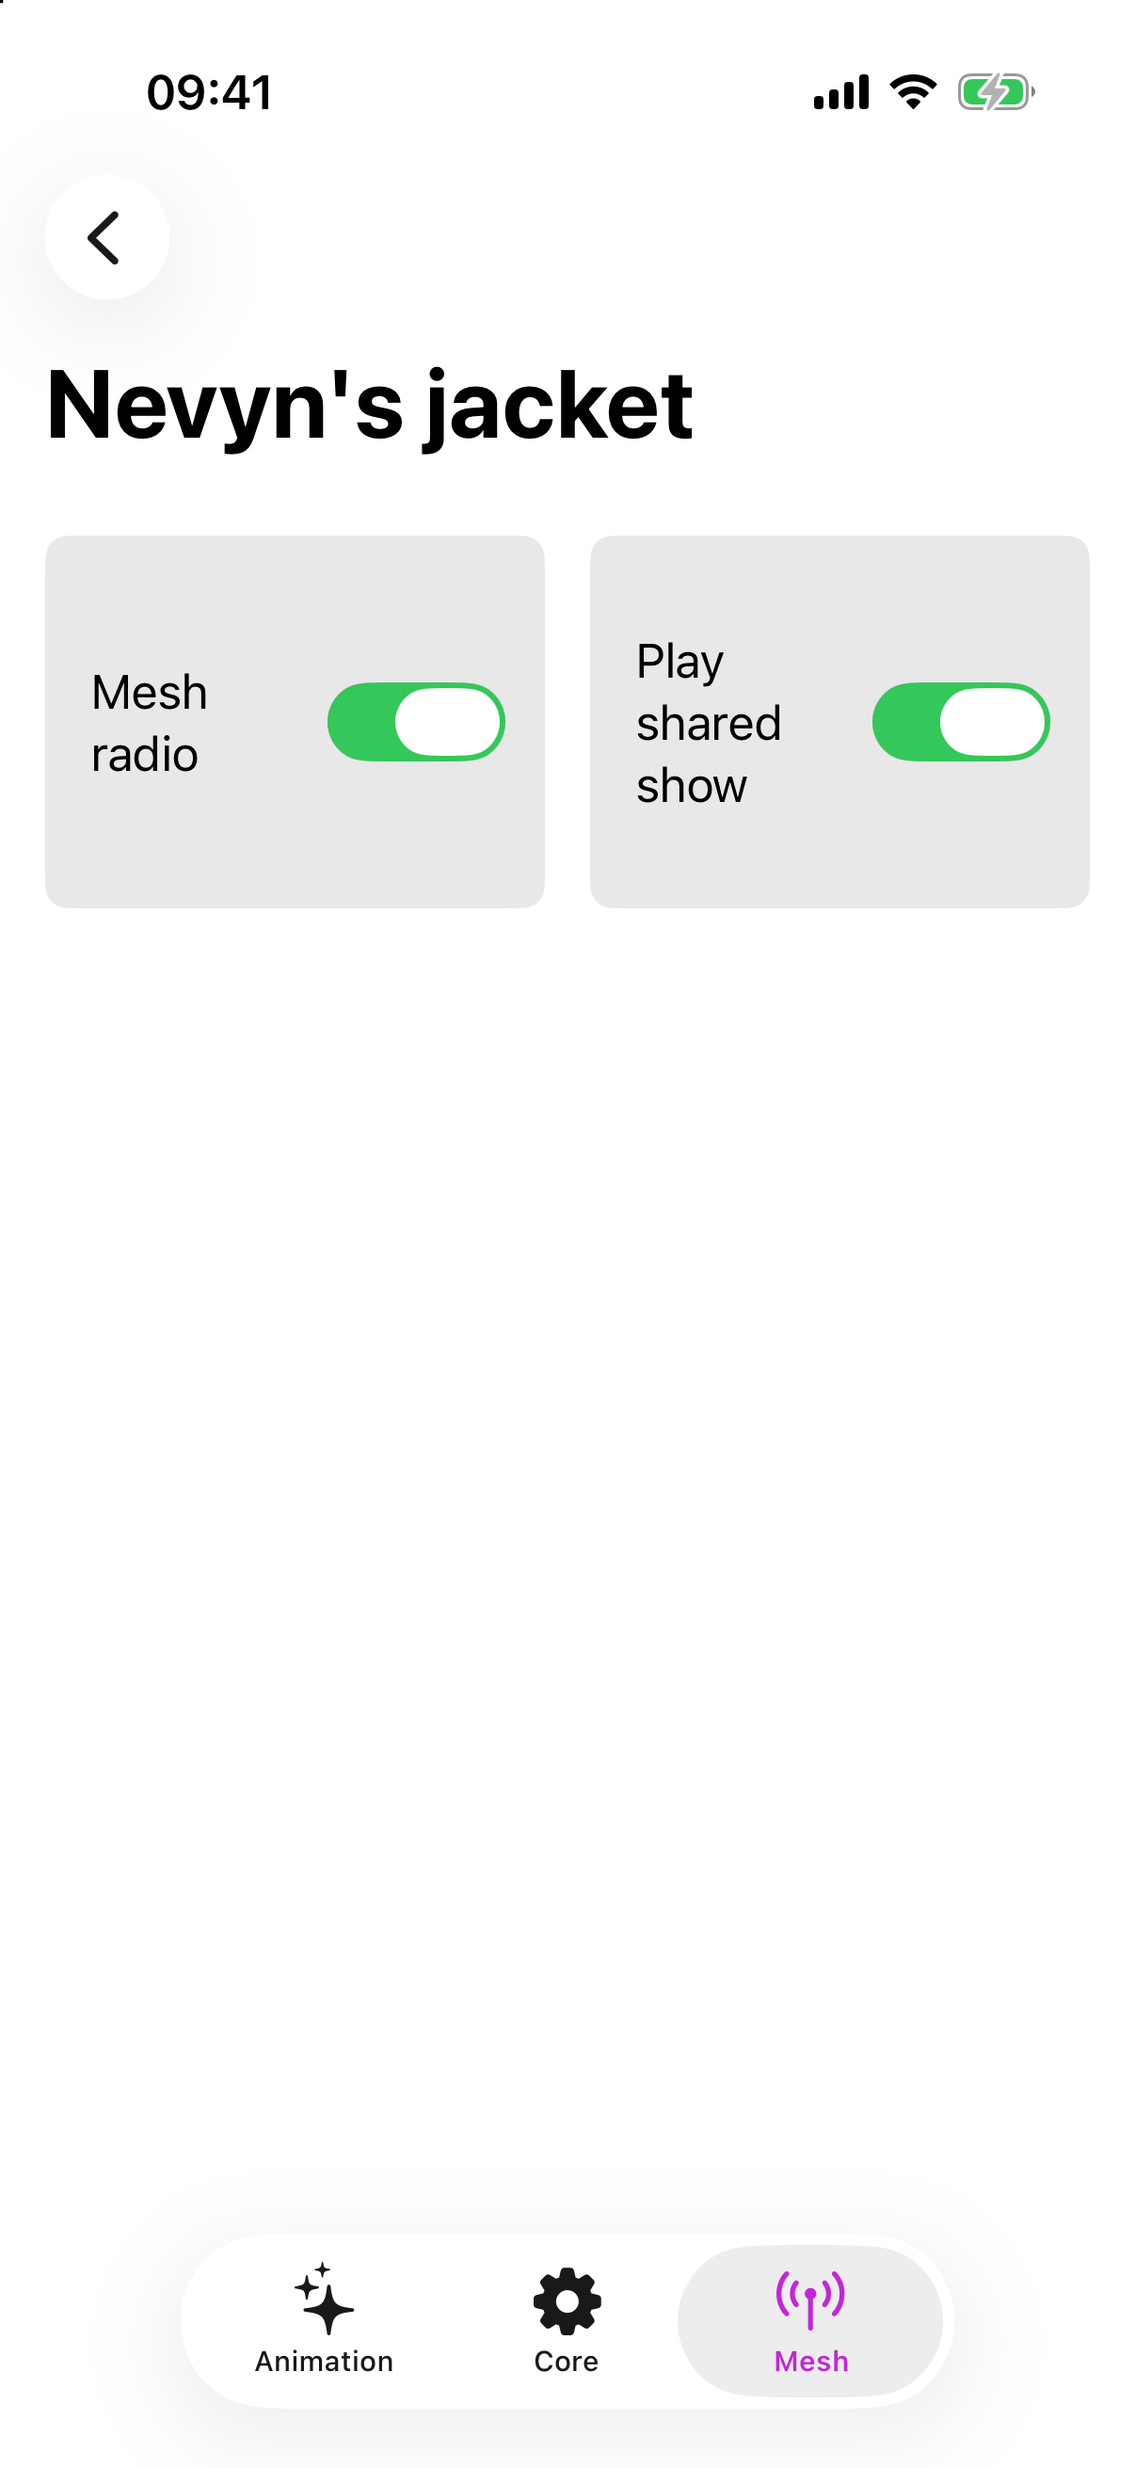
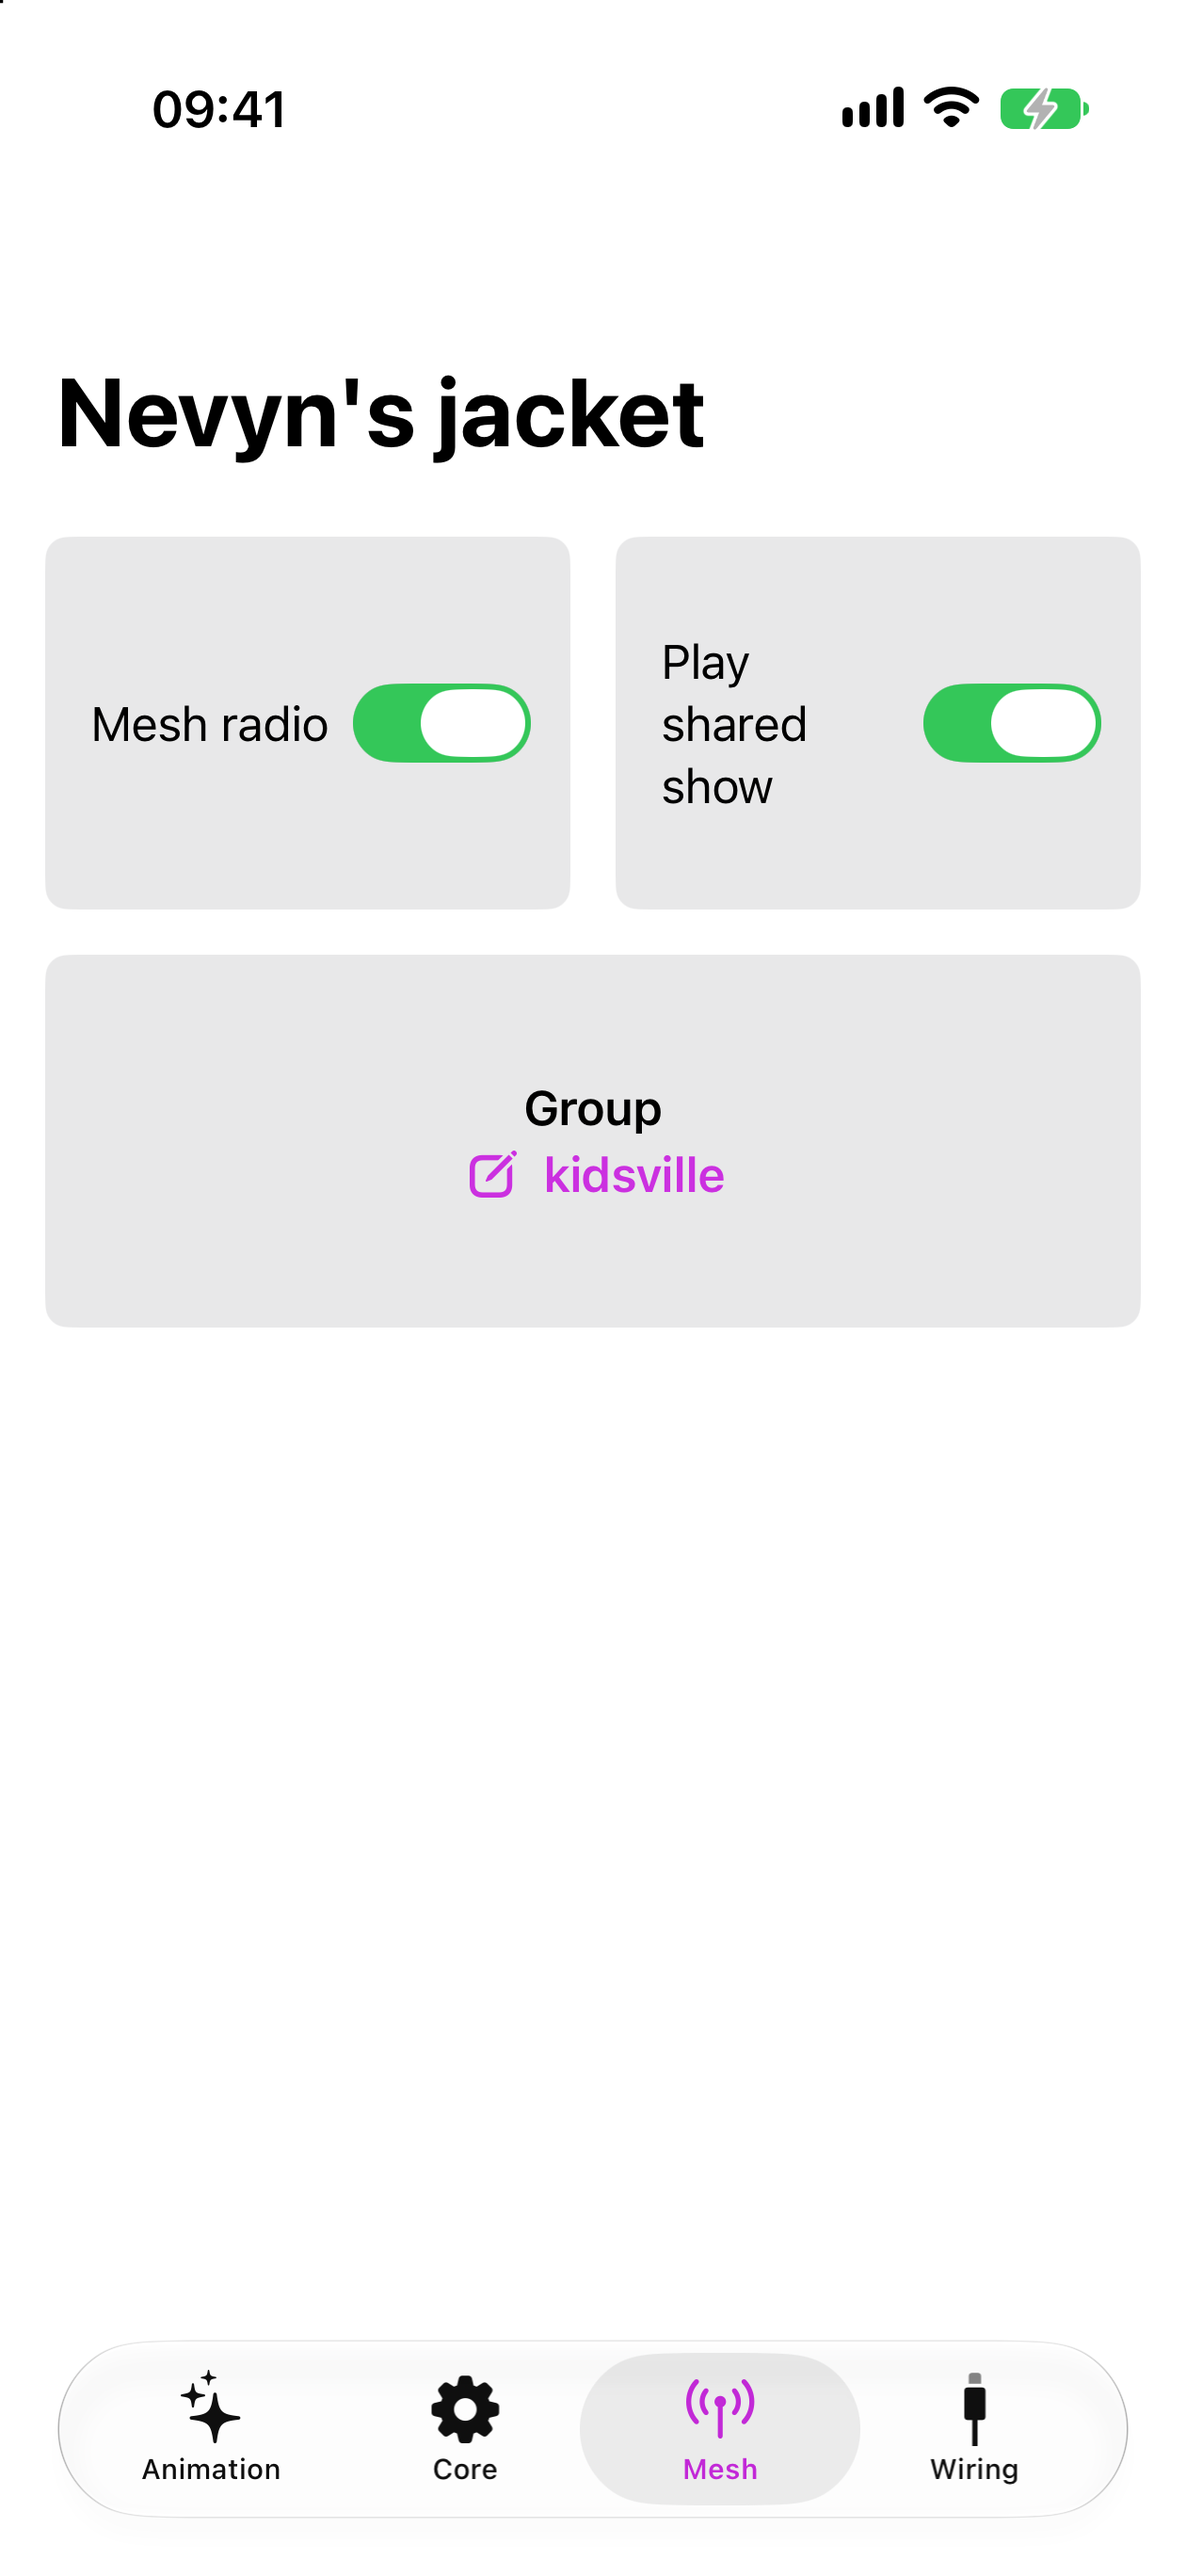
README: show the Wiring tab
Refreshes the screenshot strip from the current build and says what the
tab does, since wiring a core is now something the app explains rather
than something you look up.

diff --git a/README.md b/README.md
@@ -7,9 +7,10 @@ and the same code builds a Mac app.
 
 Nearby cores appear in a list; connect to one and every control — animation, colors, speed,
 brightness, layers and presets, beat sync, and the ESP-NOW mesh — takes effect on the strip
-as you touch it.
+as you touch it. The Wiring tab draws your board and gives each pin a job: a switch,
+a button, a knob, or the LED strip itself.
 
-<img src="img/cores.png" width="24%"> <img src="img/core-animation.png" width="24%"> <img src="img/core-settings.png" width="24%"> <img src="img/core-mesh.png" width="24%">
+<img src="img/cores.png" width="19%"> <img src="img/core-animation.png" width="19%"> <img src="img/core-settings.png" width="19%"> <img src="img/core-mesh.png" width="19%"> <img src="img/core-wiring.png" width="19%">
 
 What comes out the other end:
 
